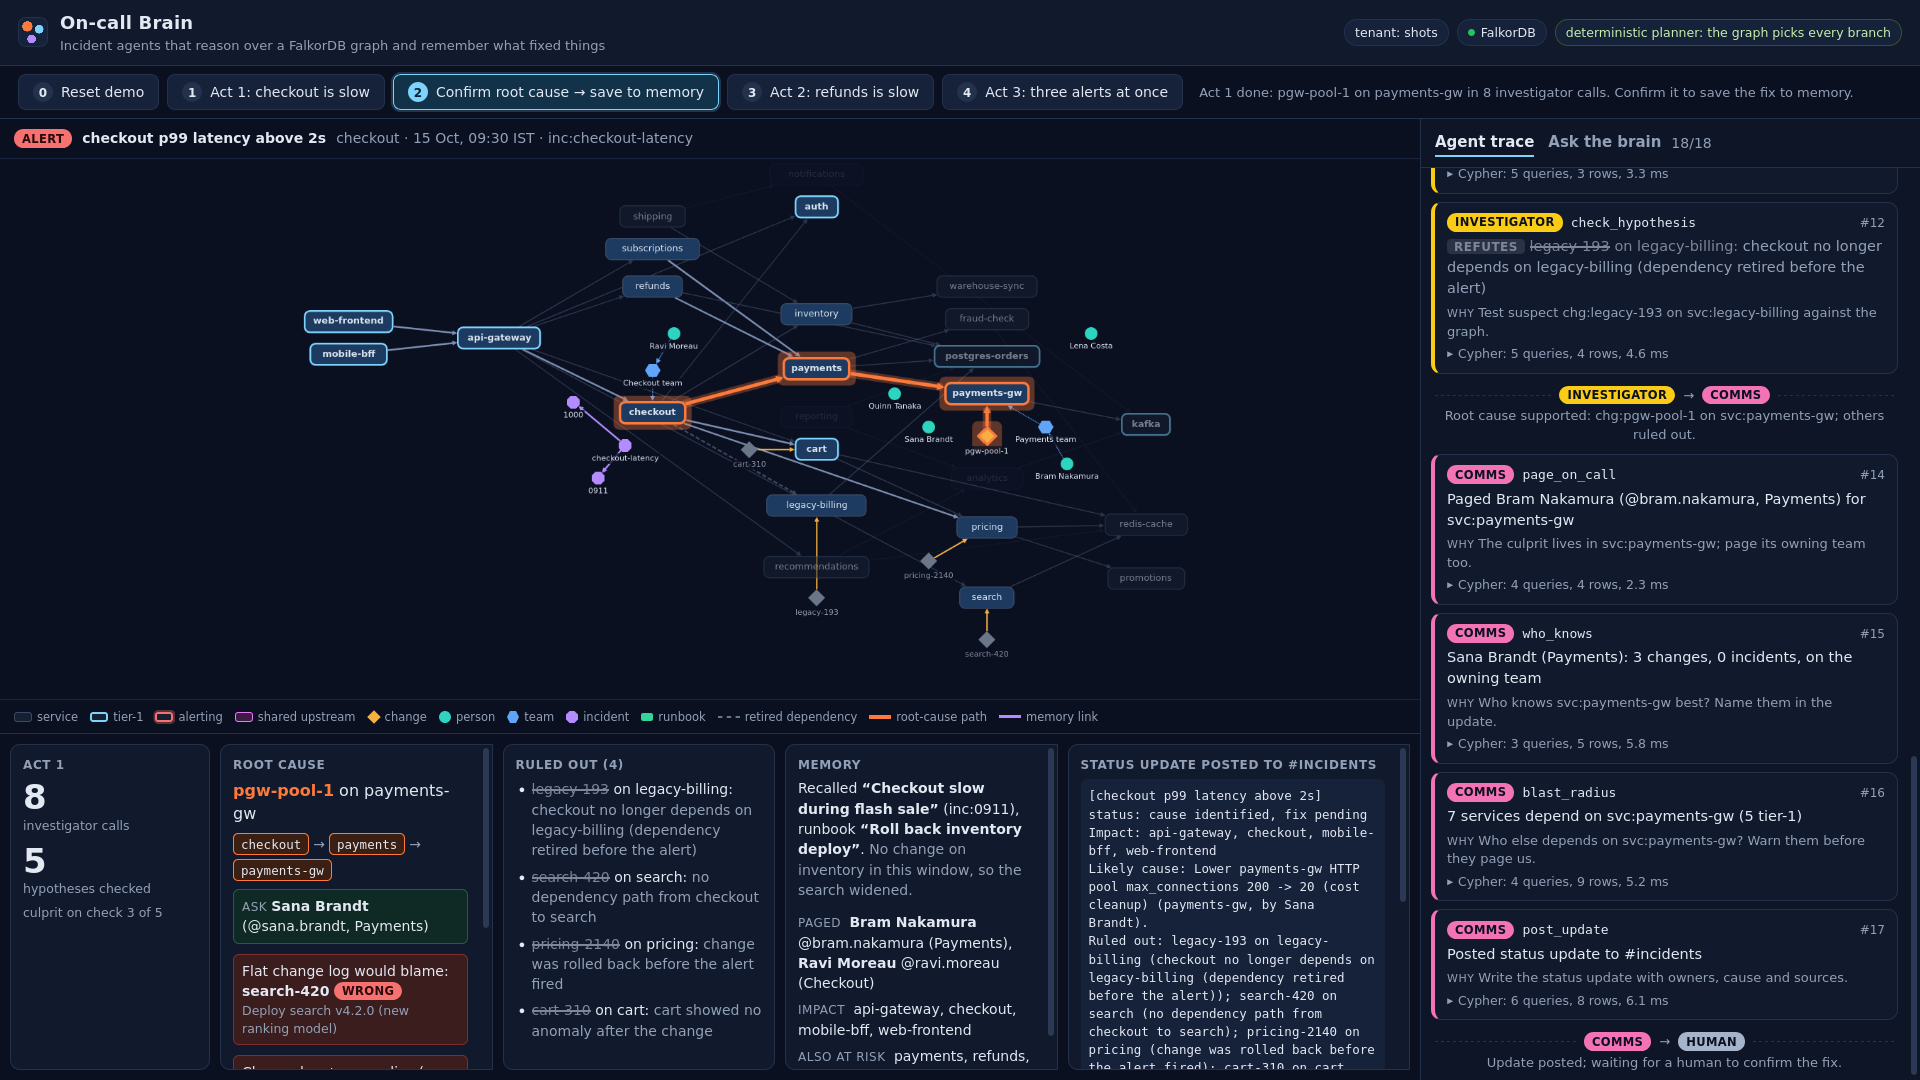
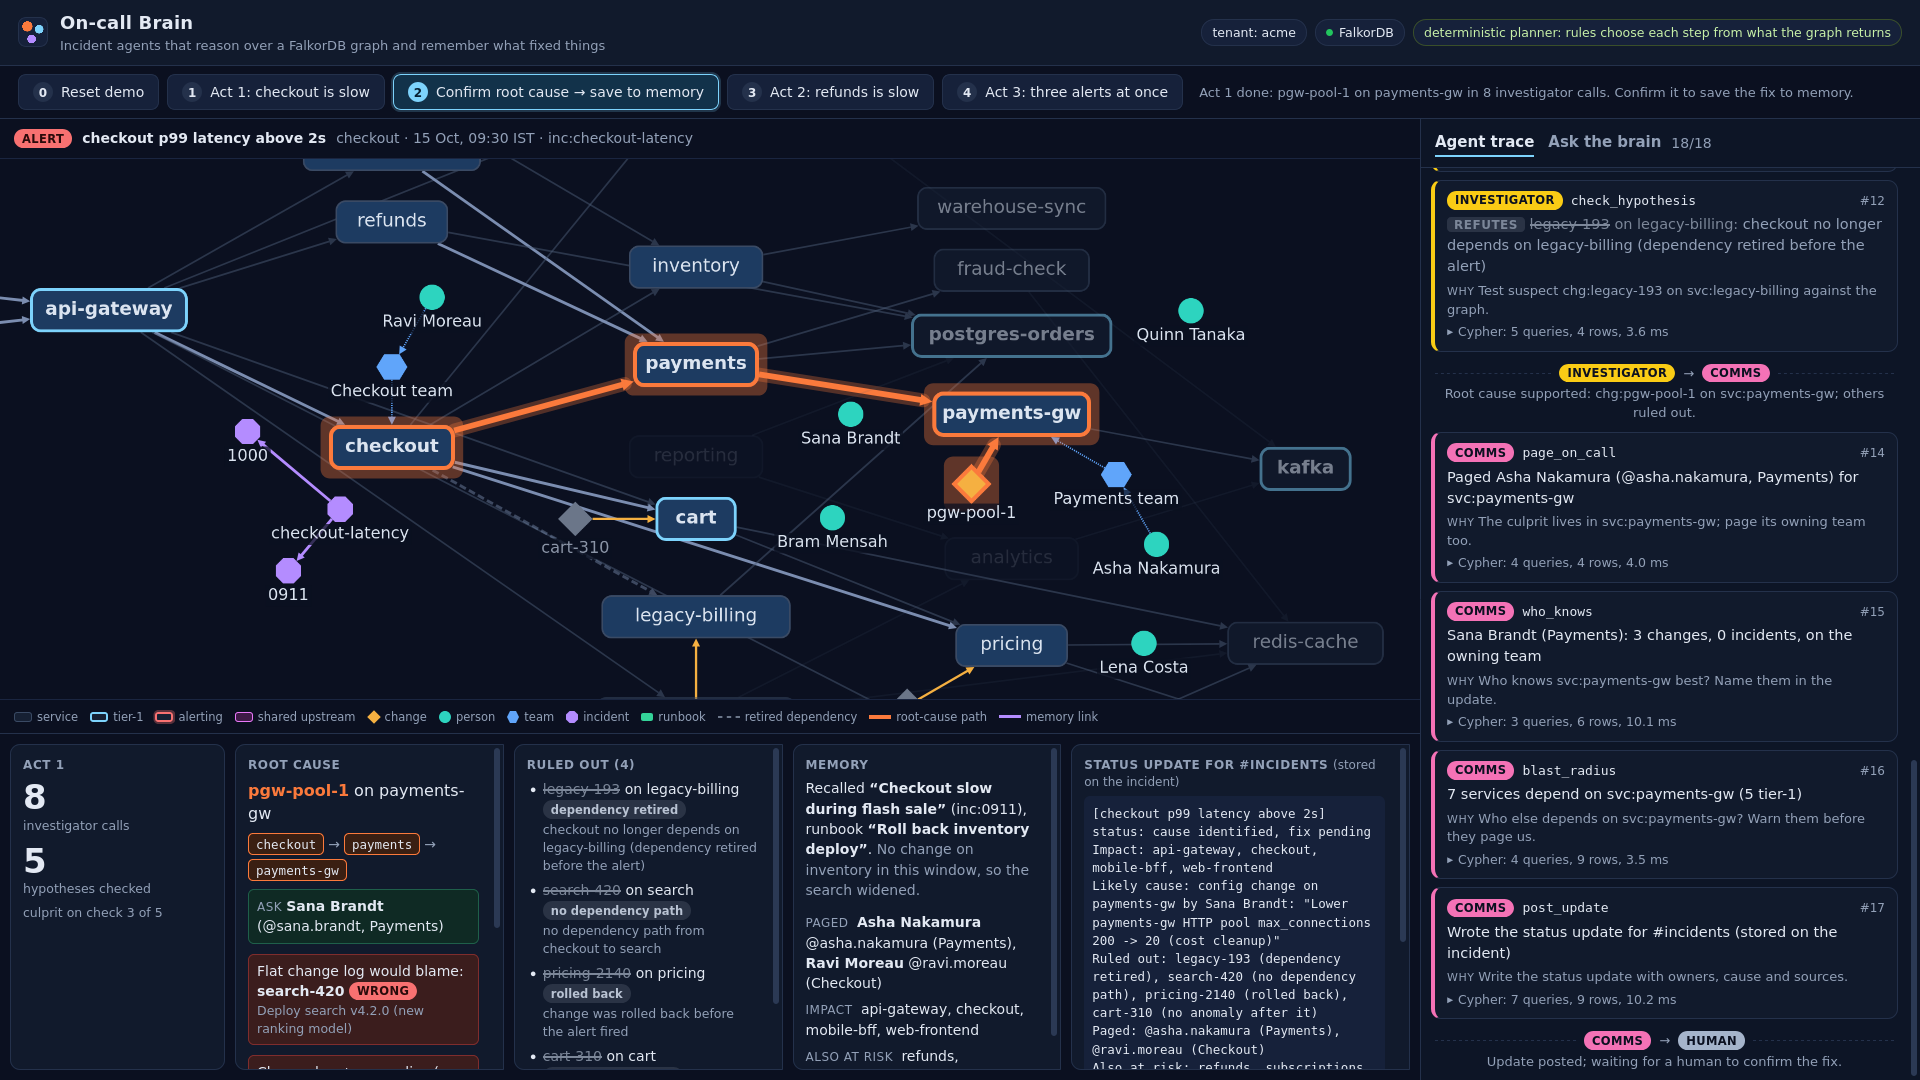
fix: outcome at-risk excludes the failure path; refreshed screenshots incl. Ask tab

diff --git a/src/oncall_brain/services/respond.py b/src/oncall_brain/services/respond.py
@@ -109,7 +109,7 @@ def outcome(repo: GraphRepository, incident_id: str, trace: list[TraceStep]) -> 
                        m["change"] == cause["change"] for m in memory[0]))},
         "paged": repo.read("incident_paged", incident_id=incident_id).rows,
         "blast_radius": sorted(direct),
-        "at_risk": sorted({x["service"] for x in impacts} - direct),
+        "at_risk": sorted({x["service"] for x in impacts} - direct - set((cause or {}).get("live_path") or [])),
         "co_causes": repo.read("co_causes", incident_id=incident_id).rows,
         "update_text": update,
         "investigator_calls": len(investigator),
